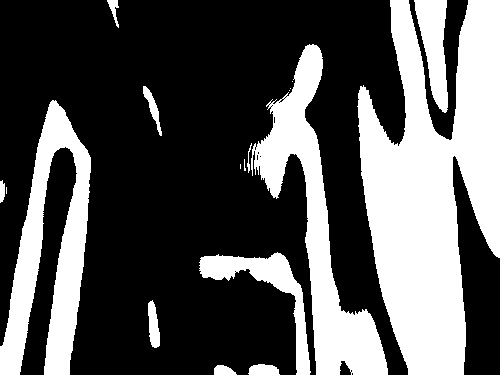
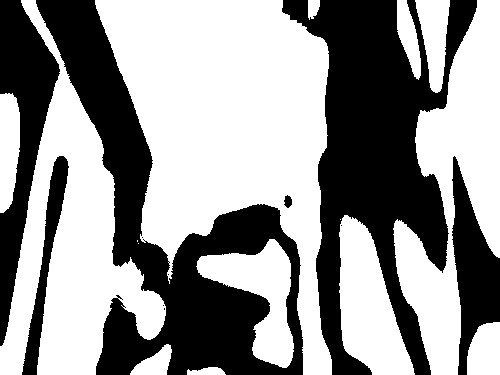
review of motion detection

diff --git a/main.py b/main.py
@@ -21,6 +21,7 @@ class Talker:
         if platform.system() == "Windows":
             import win32com.client as wincl
             speak = wincl.Dispatch("SAPI.SpVoice")
+            speak.Speak(self.msg)
         else:
             os.system("espeak {} -ven+f5 -k5 -s150 --stdout | aplay -D bluealsa".format(self.msg))
 
@@ -40,7 +41,6 @@ class Detector:
         # self.talk1 = Talker(self.messmsg)
         # t2 = Talker(self.welldonemsg)
 
-
     def detectmovement(self):
         pass
 
@@ -53,7 +53,7 @@ class Detector:
         cv2.imwrite(self.newtidyoutput, t0)
         return self.newtidyoutput
 
-    def main(self):
+    def detect(self):
         print("Press Ctrl * C to EXIT")
         tidy_g = cv2.cvtColor(self.tidy, cv2.COLOR_RGB2GRAY)
         tidy_g = cv2.GaussianBlur(tidy_g, (self.blur, self.blur), 0)
@@ -62,42 +62,37 @@ class Detector:
         cam.set(3, self.width)
         cam.set(4, self.height)
         t0 = cv2.cvtColor(cam.read()[1], cv2.COLOR_RGB2GRAY)
-        t0 = cv2.GaussianBlur(t0, (self.blur, self.blur), 0)
+        t0 = cv2.GaussianBlur(t0, (21, 21), 0)
         t0 = imutils.resize(t0, width=500)
         while True:
             t1 = cv2.cvtColor(cam.read()[1], cv2.COLOR_RGB2GRAY)
-            t1 = cv2.GaussianBlur(t1, (self.blur, self.blur), 0)
             t1 = imutils.resize(t1, width=500)
-            frameDelta = cv2.absdiff(t1, t0)
+            t1_to_check_motion = cv2.GaussianBlur(t1, (21, 21), 0)
+            frameDelta = cv2.absdiff(t1_to_check_motion, t0)
             thresh = cv2.threshold(frameDelta, 25, 255, cv2.THRESH_BINARY)[1]
+            t1b = cv2.GaussianBlur(t1, (self.blur, self.blur), 0)
             # cv2.imshow(cv2.namedWindow("tidy"), tidy)
             # cv2.imshow(cv2.namedWindow("current"), cam.read()[1])
             # cv2.imshow(cv2.namedWindow("diff"), thresh)
-            if (thresh.sum() > self.threshold):
-                print("movement detected")
+            if thresh.sum() > 1000:
+                print("movement detected", thresh.sum())
+                time.sleep(1)
             else:
-                frameDelta_w_tidy = cv2.absdiff(t1, tidy_g)
+                print("movement NOT detected", thresh.sum())
+                frameDelta_w_tidy = cv2.absdiff(t1b, tidy_g)
                 thresh_w_tidy = cv2.threshold(frameDelta_w_tidy, 25, 255, cv2.THRESH_BINARY)[1]
                 print(thresh_w_tidy.sum())
-                if (thresh_w_tidy.sum() > 500):
+                if thresh_w_tidy.sum() > self.threshold:
                     print("This place is a mess!")
-                    Talker.talk(Talker(self.messmsg))
-                    # cv2.imwrite("thresh_w_tidy.png", thresh_w_tidy)
+                    Talker(self.messmsg).talk()
                 else:
                     print("well done!")
-                    Talker.talk(Talker(self.welldonemsg))
+                    Talker(self.welldonemsg).talk()
                 cv2.imwrite("thresh_w_tidy.png", thresh_w_tidy)
                 time.sleep(10)
-            t0 = t1
+            t0 = cv2.GaussianBlur(t1, (21, 21), 0)
 
 
 # settidy()
-d1 = Detector(51, 0, 480, "t0.png", 4, 640)
-d1.main()
-
-# detectmovement2()
-# similarity()
-# img1 = "20200821_172235.jpg"
-# img2 = "20200821_172249.jpg"
-#
-# get_match_confidence(img1, img2, mask=None)
+d1 = Detector(51, 0, 480, "t0.png", 500, 640)
+d1.detect()
